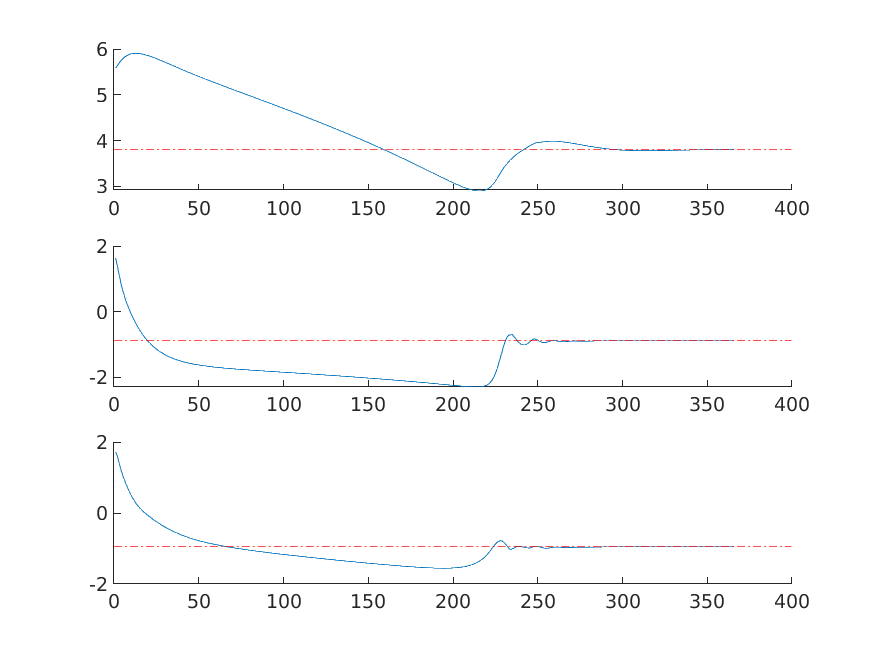
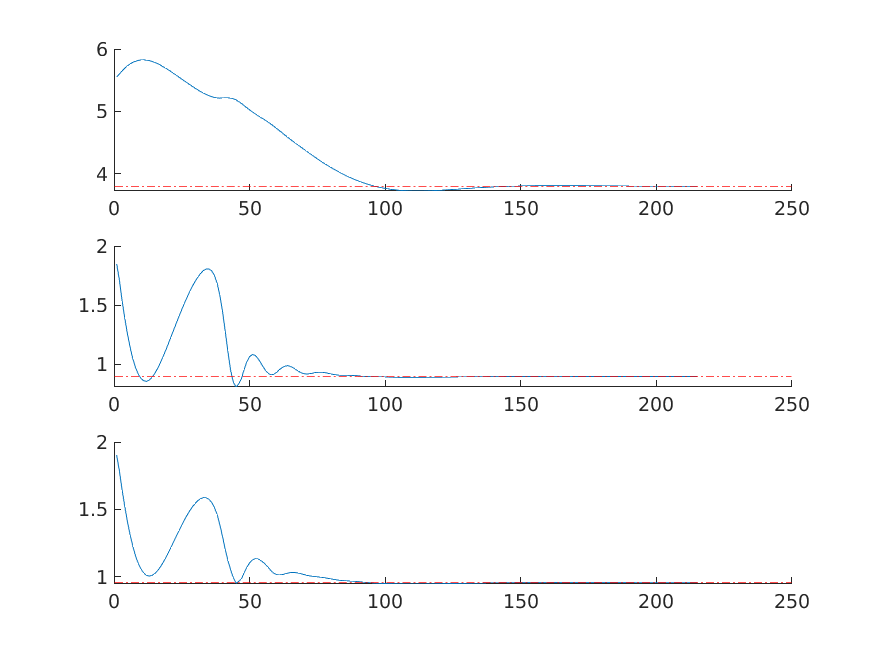
update

diff --git a/Main.m b/Main.m
@@ -236,9 +236,9 @@ if realDataSet==0||temp_data==3
     close gcf;
 end
 %% Experiment group setup
-run_GD=0;
+run_GD=1;
 run_ADMM=0;
-run_pxADMM=0;
+run_pxADMM=1;
 run_ADMM_fd=0;
 run_pxADMM_fd_sync=1;
 run_pxADMM_fd_async=1;
@@ -336,7 +336,7 @@ if run_pxADMM
         Agents(m).rho=rho_glb;
         Agents(m).l=initial_l';
         Agents(m).sigma_f=initial_sigma_f;
-        Agents(m).sigma_n=sigma_n;
+        Agents(m).sigma_n=initial_sigma_n;
         Agents(m).L=L_glb;
     end
     % run pxADMM
@@ -565,7 +565,7 @@ if run_pxADMM_async_realSimu
     warning('on','all')
 end
 %% Compare convergence speed in terms of iterations
-figure,
+gcf=figure;
 lgd_txt=[];
 hold on;
 if run_GD
@@ -609,6 +609,11 @@ ylabel('norm(step)');
 title('log plot of steps-iterations');
 legend(lgd_txt);
 hold off;
+s=hgexport('factorystyle');
+s.Resolution=600;
+s.Format='png';
+fname='results/HOMethodsCompare';
+hgexport(gcf,fname,s);
 pause(0.01)
 save('workspaceForDebug.mat');
 

diff --git a/GPR_predict_NoAg.m b/GPR_predict_NoAg.m
@@ -107,17 +107,3 @@ parfor i=1:M
     end
 end
 end
-
-function k=kernelFunc(x1,x2,theta,sigma_n,type)
-switch type
-    case {'RBF','rbf'}
-        sigma_f=theta(1);
-        l=theta(2:end);
-        k=sigma_f^2*exp(-0.5*(x1-x2)'*inv(diag(l.^2))*(x1-x2));
-        if x1==x2
-            k=k+sigma_n^2;
-        end
-end
-
-
-end

diff --git a/runPXADMM.m b/runPXADMM.m
@@ -39,7 +39,7 @@ while pxADMMflag
     % hyperparameters
     for m=1:M
         Agents(m)=Agents(m).runLocalPxADMM;
-        Zs{m}=[Zs{m},[Agents(m).sigma_f;Agents(m).l]];
+        Zs{m}=[Zs{m},[Agents(m).sigma_f;Agents(m).l;Agents(m).sigma_n]];
     end
     step = norm(updated_z(1:end)-old_z(1:end));
     Steps=[Steps,step];

diff --git a/kernelFunc.m b/kernelFunc.m
@@ -1,8 +1,9 @@
 function k=kernelFunc(x1,x2,theta,sigma_n,type)
 switch type
     case {'RBF','rbf'}
+        D=length(x1);
         sigma_f=theta(1);
-        l=theta(2:end);
+        l=theta(2:(2+D-1));
         k=sigma_f^2*exp(-0.5*(x1-x2)'*inv(diag(l.^2))*(x1-x2));
         if x1==x2
             k=k+sigma_n^2;

diff --git a/GPRSinglePointPredict.m b/GPRSinglePointPredict.m
@@ -5,7 +5,7 @@ function [Mean,Var] = GPRSinglePointPredict(X,x,alpha,L,theta,sigma_n)
 % unpack variables
 N=size(X,2);
 sigma_f=theta(1);
-l=theta(2:end);
+l=theta(2:(end-1));
 
 
 x_star=x;
